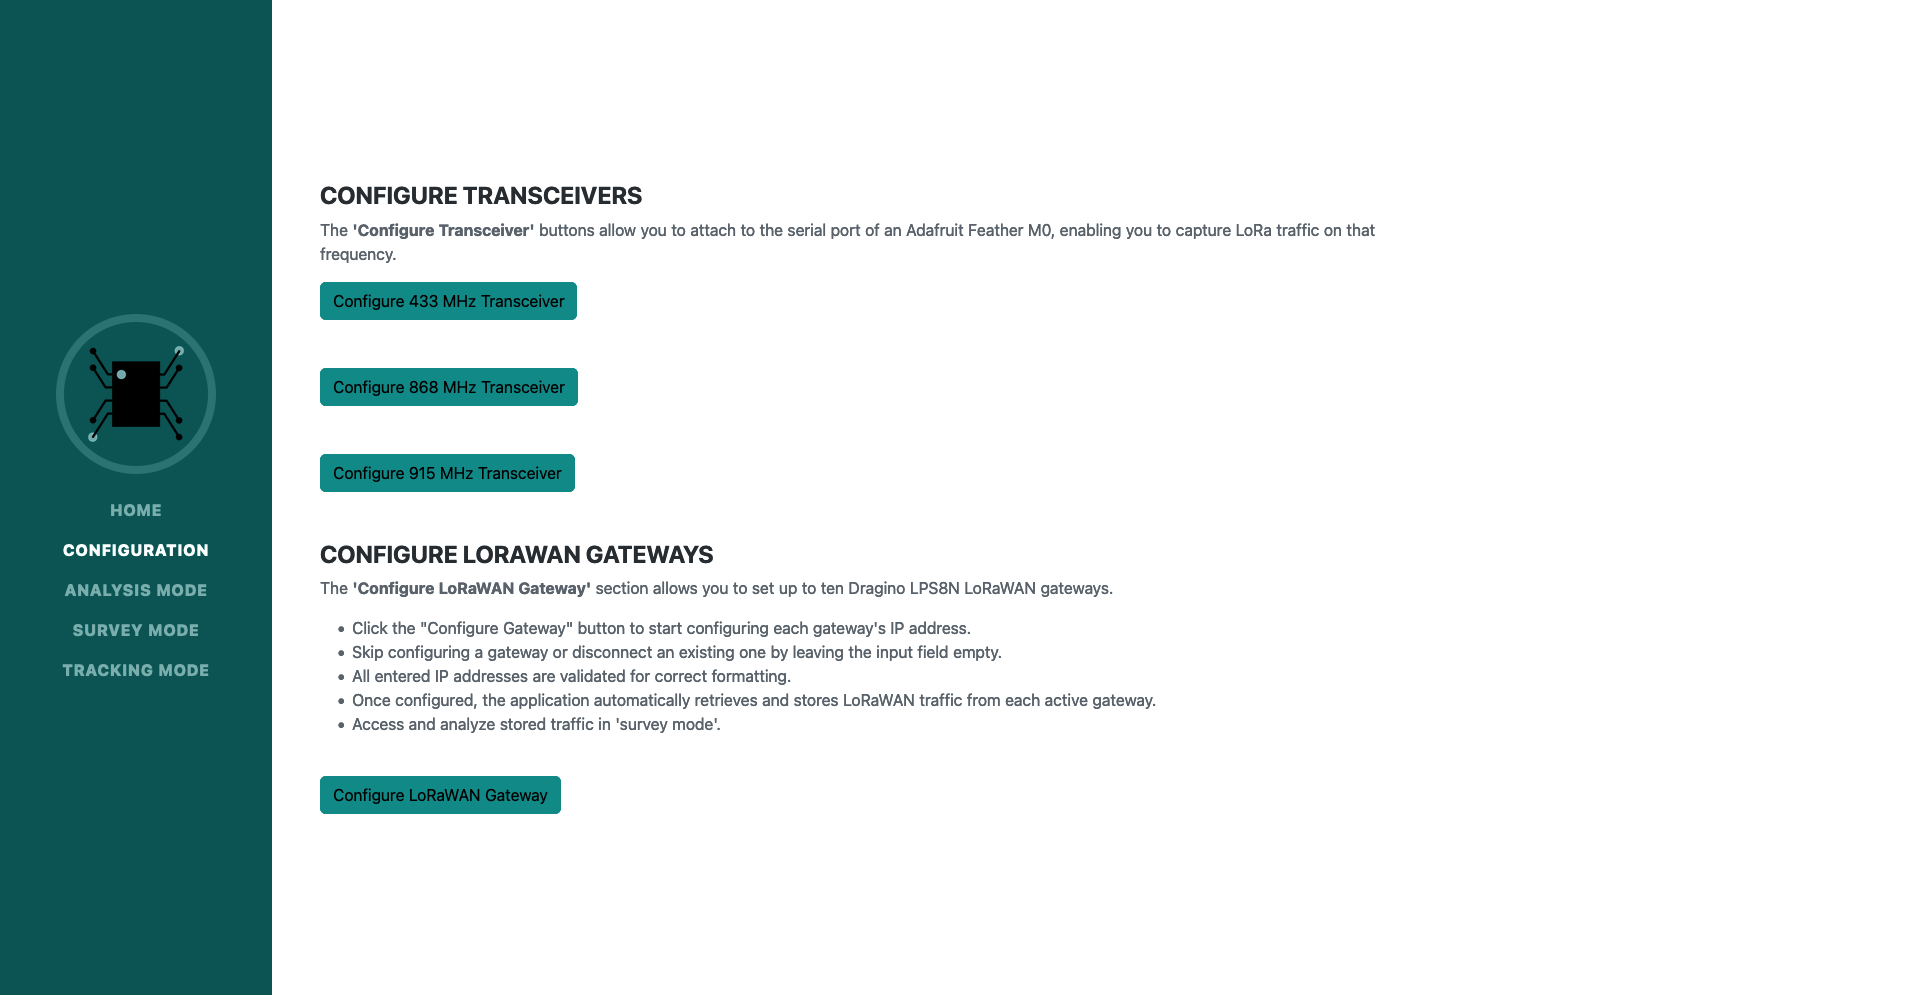
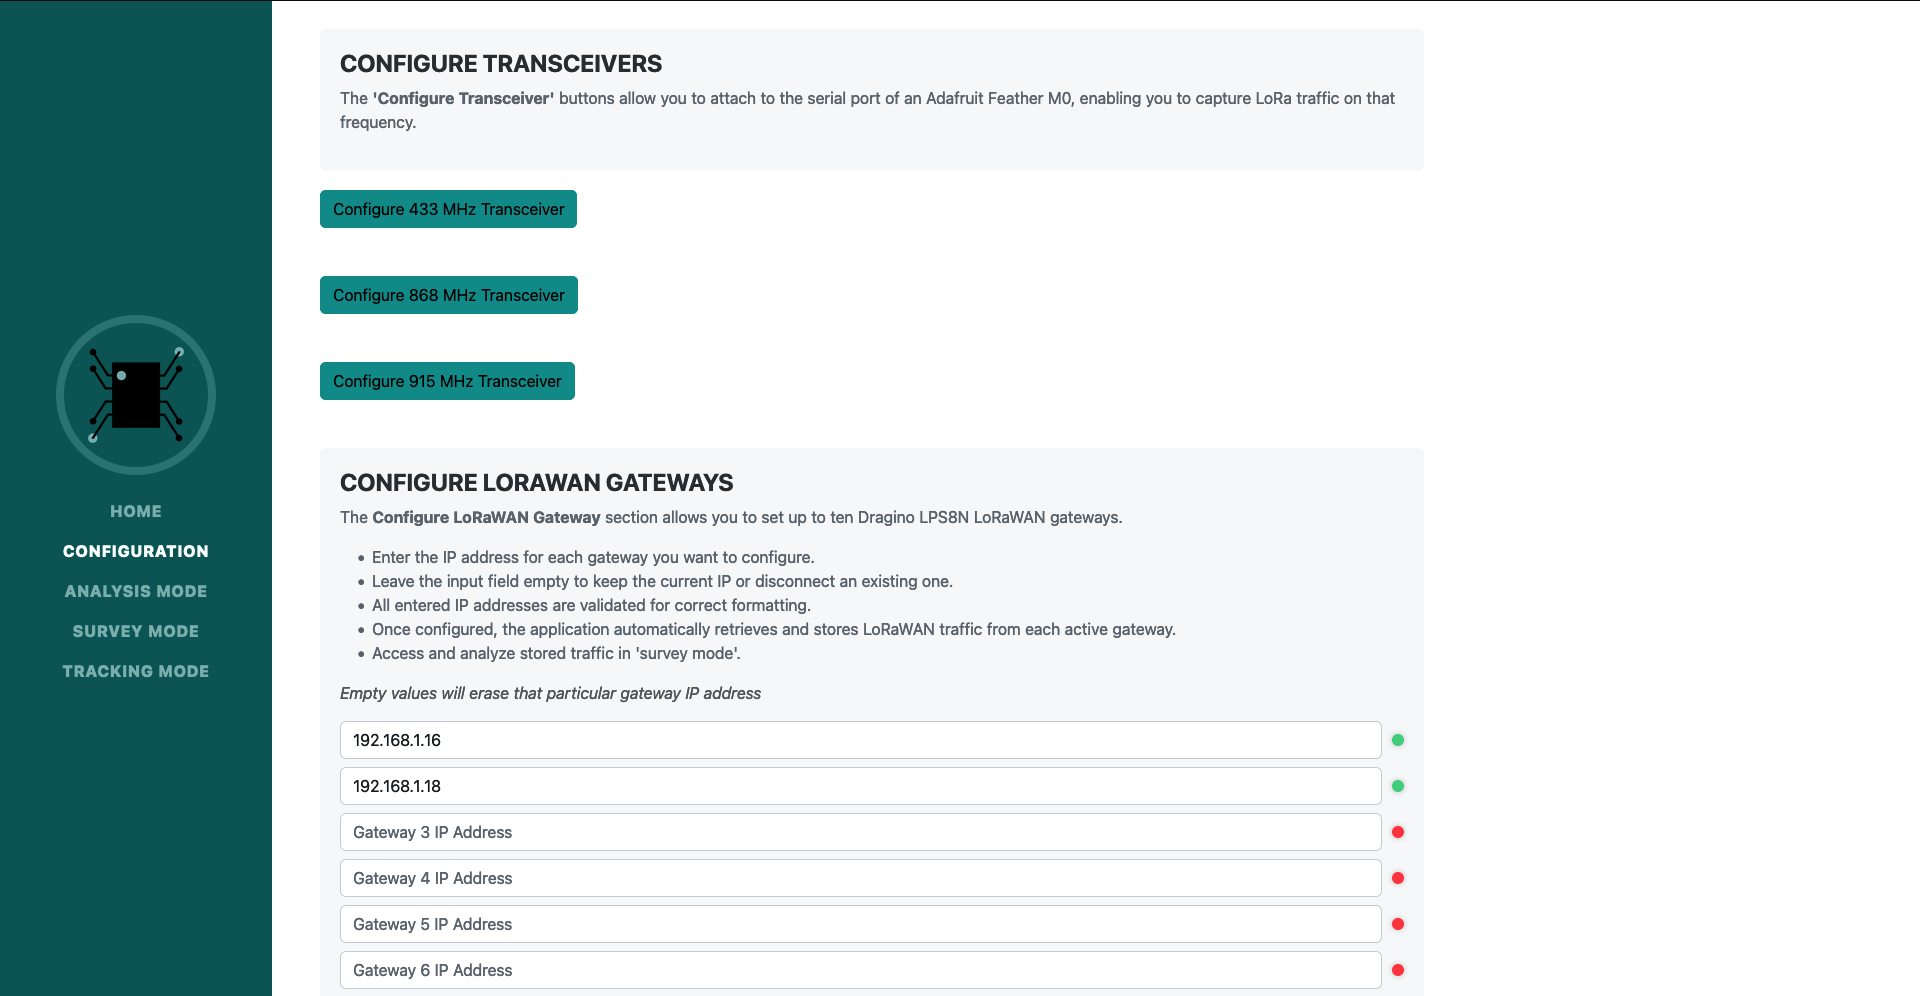
Feat: Auto save of gateway config

diff --git a/templates/index.html b/templates/index.html
@@ -695,11 +695,11 @@
                             <li>Once configured, the application automatically retrieves and stores LoRaWAN traffic from each active gateway.</li>
                             <li>Access and analyze stored traffic in 'survey mode'.</li>
                         </ul>
-                        <p class="note"><em>Empty values will be ignored, and the Gateway IP address will remain unchanged</em></p>
+                        <p class="note"><em>Empty values will erase that particular gateway IP address</em></p>
                     </div>
                     <form id="gatewayForm" class="mt-3">
                         <div id="gatewayInputs"></div>
-                        <button type="button" class="btn btn-primary mt-3" onclick="submitGatewayForm()">Update Gateways</button>
+                        <button type="button" class="btn btn-primary mt-3" onclick="submitGatewayForm()">Configure Gateways</button>
                     </form>
                 </section>
 

diff --git a/app.py b/app.py
@@ -14,6 +14,9 @@ from io import StringIO, BytesIO
 import csv
 import serial.tools.list_ports
 from ipaddress import ip_address, AddressValueError
+import os
+import json
+
 
 app = Flask(__name__)
 socketio = SocketIO(app)
@@ -41,6 +44,7 @@ frequency = lambda port: {'port1': 433, 'port2': 868,'port3': 915}.get(port, Non
 surveydata = {}
 parsed_entries = set()
 used_ports = set()
+CONFIG_FILE = 'gateway_config.json'
 
 def read_serial_data(port, ser, buffer):
     """
@@ -728,24 +732,62 @@ def set_gateways():
     global gateway_ips
     data = request.form
     
-    # Create an ordered dictionary of gateways
+    # Update gateway IPs
     ordered_gateways = {}
     for i in range(1, 11):
         key = f'gateway{i}'
         input_ip = data.get(key, '').strip()
-        ordered_gateways[key] = input_ip
+        ordered_gateways[key] = input_ip if input_ip else ''
         
-    # Update the global gateway_ips with ordered data
     gateway_ips.update(ordered_gateways)
 
     for gateway, ip_address in gateway_ips.items():
         print(f"Gateway {gateway} has IP address: {ip_address}")
-
-    return jsonify({"message": "Gateway IPs updated successfully"}), 200
+    
+    # Save configuration
+    if save_gateway_config():
+        return jsonify({"message": "Gateway IPs updated and saved successfully"}), 200
+    else:
+        return jsonify({"message": "Gateway IPs updated but failed to save configuration"}), 200
 
 @app.route('/get_gateways', methods=['GET'])
 def get_gateways():
+    """
+    Retrieves the current IP addresses of the gateways.
+
+    This function handles the '/get_gateways' URL route and returns a JSON
+    response containing the IP addresses of the configured gateways.
+
+    Returns:
+    Response: A JSON response with the current gateway IPs, where each key is
+              a gateway identifier and the value is the corresponding IP address.
+    """
     return jsonify(gateway_ips)
+
+def save_gateway_config():
+    """
+    Saves the current gateway configuration to a JSON file.
+    """
+    try:
+        with open(CONFIG_FILE, 'w') as f:
+            json.dump(gateway_ips, f)
+        return True
+    except Exception as e:
+        print(f"Error saving gateway configuration: {e}")
+        return False
+
+def load_gateway_config():
+    """
+    Loads the gateway configuration from a JSON file.
+    """
+    global gateway_ips
+    try:
+        if os.path.exists(CONFIG_FILE):
+            with open(CONFIG_FILE, 'r') as f:
+                loaded_config = json.load(f)
+                gateway_ips.update(loaded_config)
+    except Exception as e:
+        print(f"Error loading gateway configuration: {e}")
 
 @app.route('/downloadPackets', methods=['GET'])
 def downloadPackets():
@@ -772,5 +814,6 @@ def downloadPackets():
 
 
 if __name__ == '__main__':
+    load_gateway_config()
     Timer(30, parse_and_store_data).start()
     socketio.run(app, debug=True)

diff --git a/README.md b/README.md
@@ -80,6 +80,8 @@ The 'Configure LoRaWAN Gateway' section allows you to set up to ten Dragino LPS8
 
 ![gateways](./doc/img/gateways.png)
 
+The gateway configuration will automatically be saved to a file named 'gateway_config.json'.  This file gets loaded each time the application runs.  If you would like to save multiple configurations, copy the 'gateway_config.json' to a new file for later use.
+
 ## Analysis Mode
 
 Analyze LoRa traffic received at 433, 868, or 915 MHz with ‘Analysis Mode’. Click the desired frequency to get started.  Once connected to your LoRa receiver, traffic will automatically be streamed to the web page for analysis. To disconnect a receiver, click the 'Disconnect Serial Port' button.
